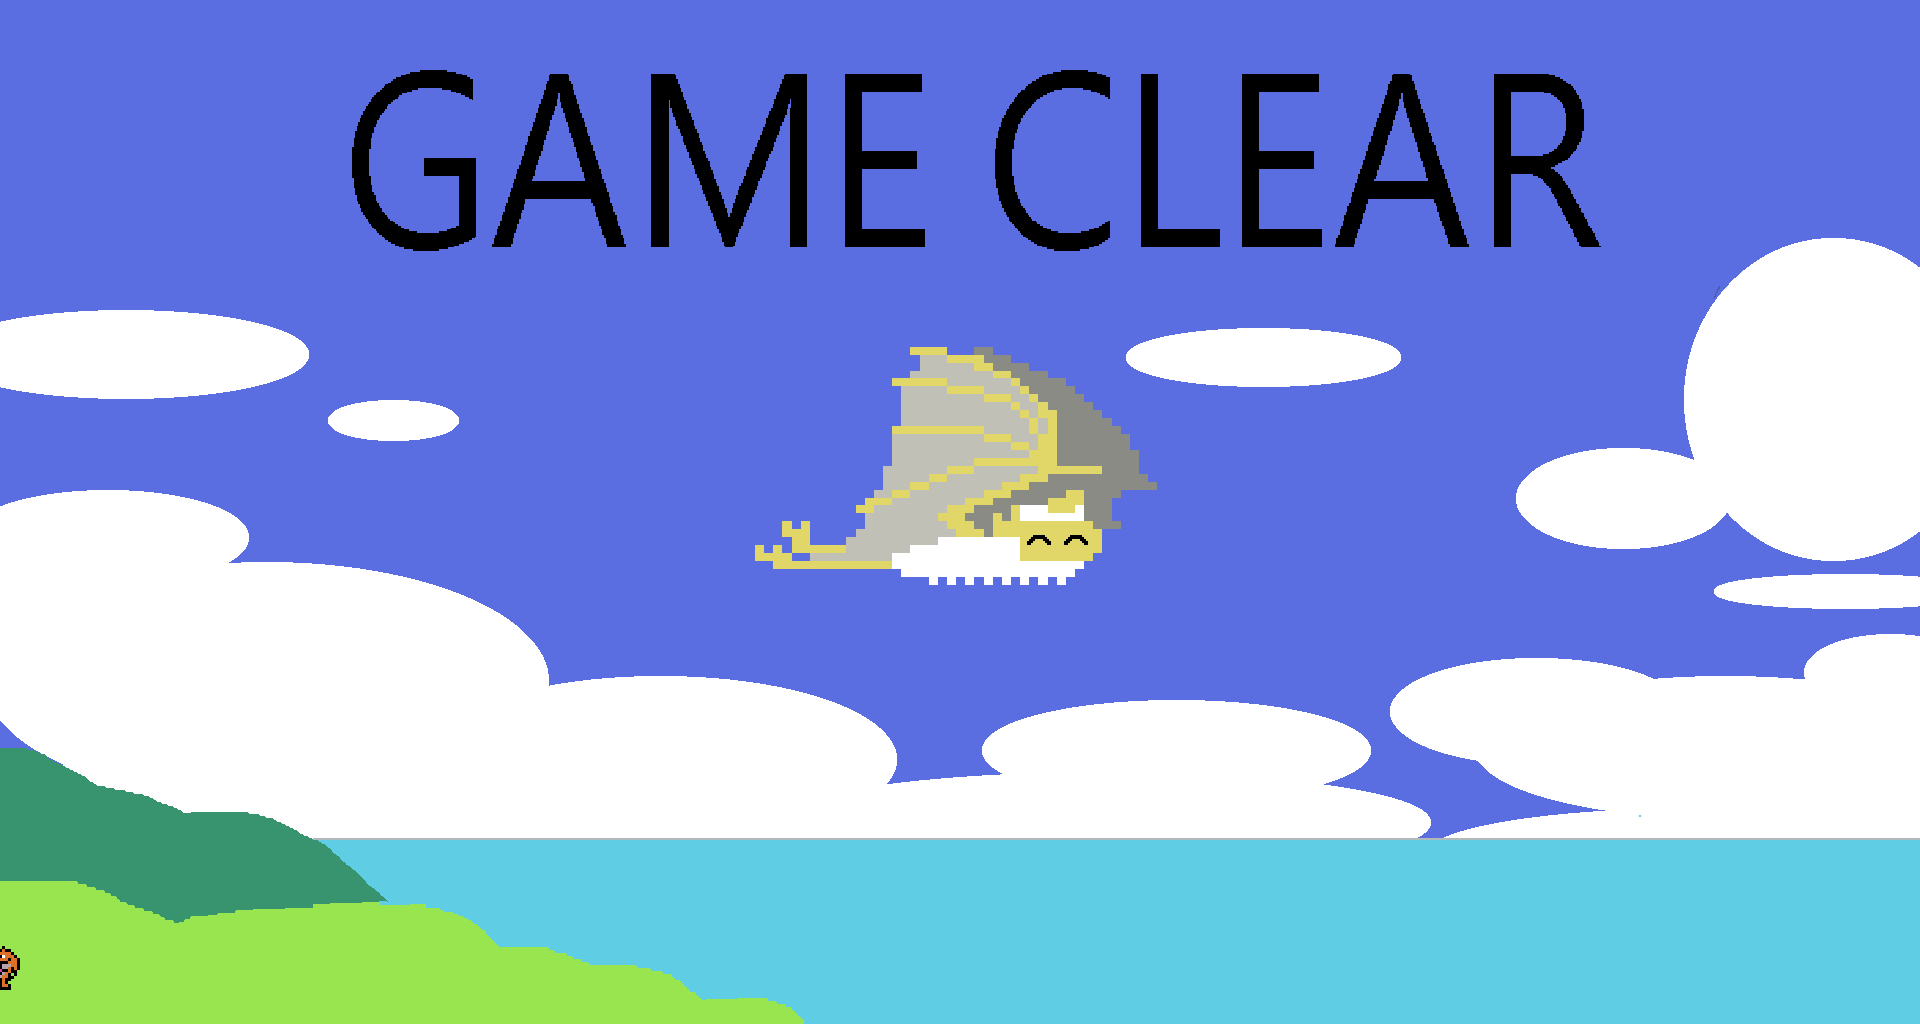
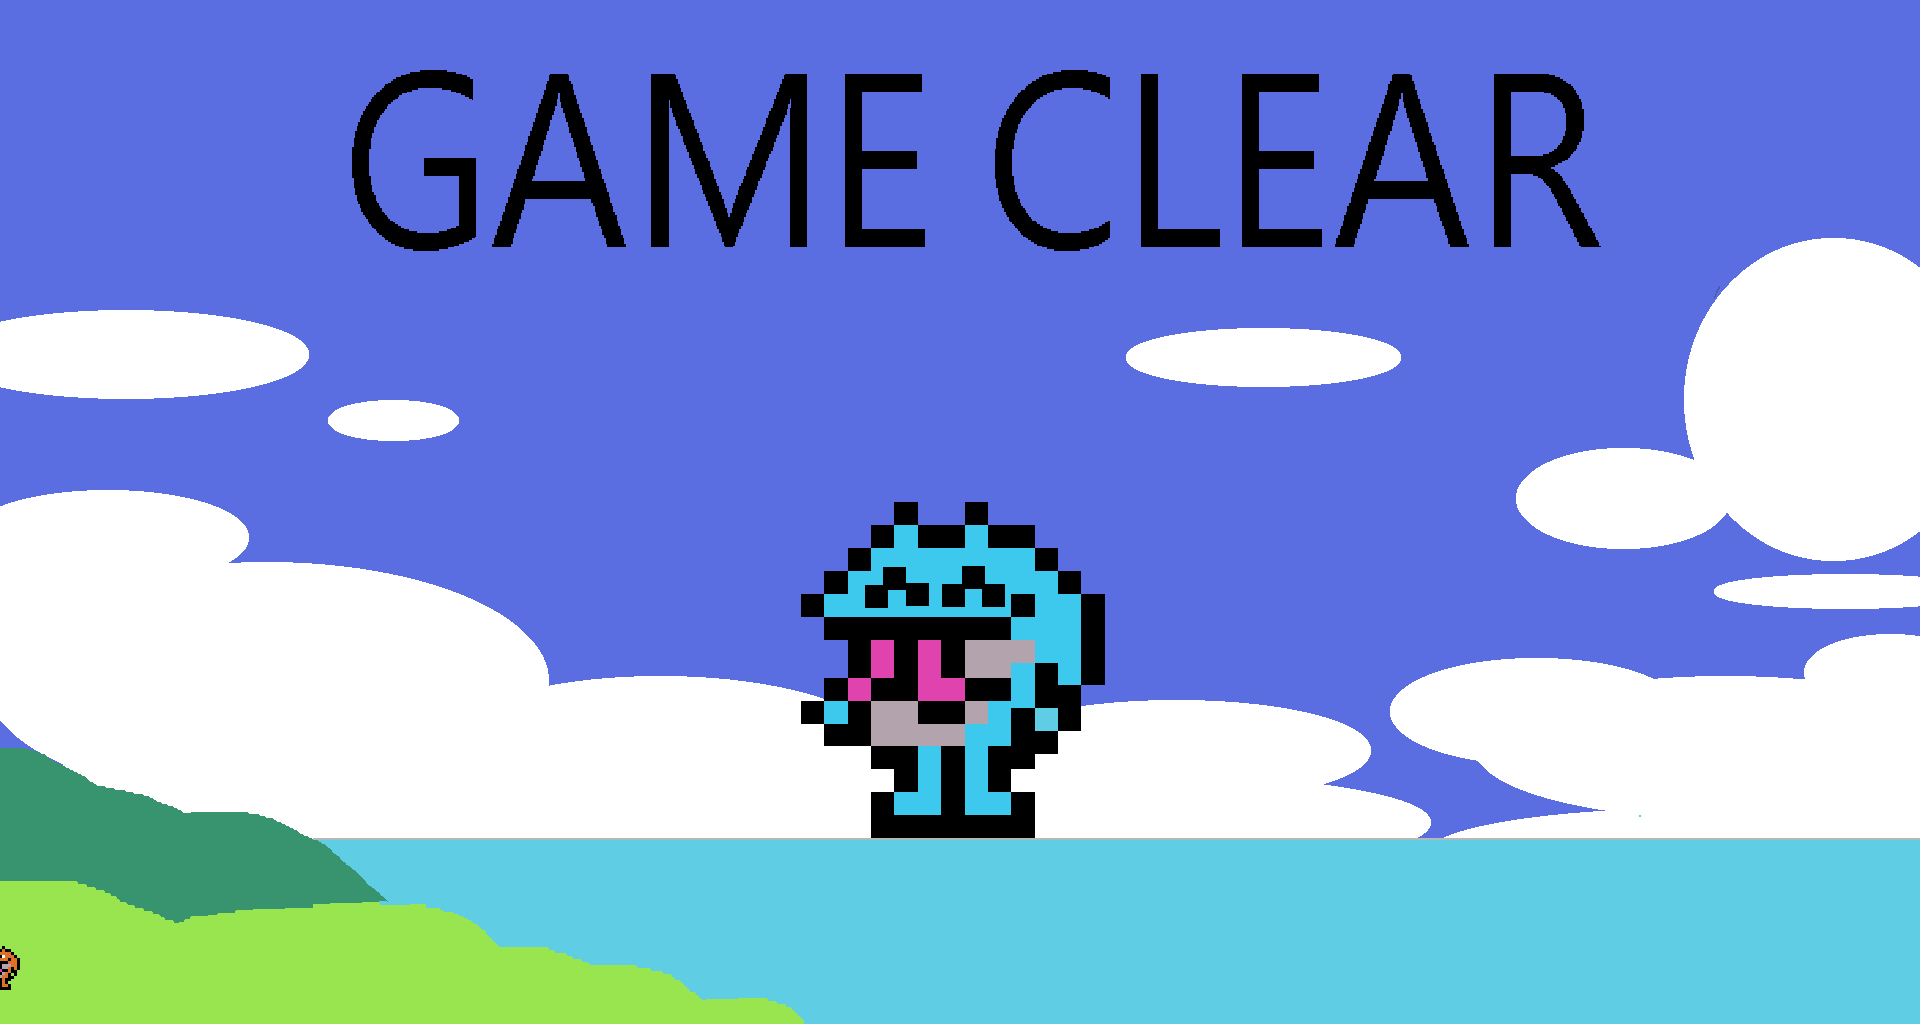
ゲームクリアとゲームオーバー終わり

Changed region(s): [[0.375, 0.3438, 0.5938, 0.8438]]

diff --git a/GameClearScene.cpp b/GameClearScene.cpp
@@ -1,7 +1,6 @@
 #include "GameClearScene.h"
 
 void GameClearScene::Initialize() {
-
 	input_ = Input::GetInstance();
 	input_->Initialize();
 
@@ -23,30 +22,51 @@ void GameClearScene::Initialize() {
 	sprite_[2]->SetSize({1280.0f, 720.0f});
 	sprite_[2]->SetColor({0.0f, 0.0f, 0.0f, 0.0f});
 
+	sprite_[3].reset(sprite_[2]->Create(uvChacker_, {0.0f, 0.0f}));
+	sprite_[3]->SetSize({1280.0f, 720.0f});
+	sprite_[3]->SetColor({0.0f, 0.0f, 0.0f, 0.0f});
+
 	isPushKey = false;
 	spriteChangeTimer = 0;
+
+	material[0] = {0.0f, 0.0f, 0.0f, 0.0f};
+	material[1] = {0.0f, 0.0f, 0.0f, 1.0f};
+
+	isChange = true;
 }
 
 void GameClearScene::Update() {
 	input_->Update();
 
-	spriteChangeTimer++;
-
-	if (spriteChangeTimer >= 90) {
-		spriteChangeTimer = 0;
+	if (isChange == true) {
+		material[1].w -= 0.01f;
+		sprite_[3]->SetColor({0.0f, 0.0f, 0.0f, material[1].w});
 	}
 
-	if (input_->PushKey(DIK_RETURN)) {
-		isPushKey = true;
+	if (sprite_[3]->GetColor().w <= 0.0f) {
+		isChange = false;
 	}
 
-	if (isPushKey == true) {
-		material.w += 0.01f;
-		sprite_[2]->SetColor({0.0f, 0.0f, 0.0f, material.w});
-	}
+	if (isChange == false) {
 
-	if (sprite_[2]->GetColor().w >= 1.0f) {
-		sceneNo = TITLE;
+		spriteChangeTimer++;
+
+		if (spriteChangeTimer >= 90) {
+			spriteChangeTimer = 0;
+		}
+
+		if (input_->PushKey(DIK_RETURN)) {
+			isPushKey = true;
+		}
+
+		if (isPushKey == true) {
+			material[0].w += 0.01f;
+			sprite_[2]->SetColor({0.0f, 0.0f, 0.0f, material[0].w});
+		}
+
+		if (sprite_[2]->GetColor().w >= 1.0f) {
+			sceneNo = TITLE;
+		}
 	}
 }
 
@@ -56,18 +76,27 @@ void GameClearScene::Draw() {
 	for (int i = 0; i <= 2; i++) {
 		sprite_[i]->PreDraw(commandList);
 
-		if (spriteChangeTimer <= 44) {
-			sprite_[0]->Draw();
-		} else if (spriteChangeTimer >= 45) {
-			sprite_[1]->Draw();
+		if (isChange == true) {
+			sprite_[3]->Draw();
 		}
 
-		if (isPushKey == true) {
-			sprite_[2]->Draw();
-		}
+		if (isChange == false) {
 
+			if (spriteChangeTimer <= 44) {
+				sprite_[0]->Draw();
+			} else if (spriteChangeTimer >= 45) {
+				sprite_[1]->Draw();
+			}
+
+			if (isPushKey == true) {
+				sprite_[2]->Draw();
+			}
+		}
 		sprite_[i]->PostDraw();
 	}
 }
 
-void GameClearScene::Finalize() {}
+void GameClearScene::Finalize()
+{
+
+}

diff --git a/GameOverScene.cpp b/GameOverScene.cpp
@@ -6,8 +6,8 @@ void GameOverScene::Initialize() {
 
 	TextureManager::GetInstance()->Initialize(DirectXCommon::GetInstance()->GetDevice());
 
-	titlepng[0] = TextureManager::Load("SusumeEnemyO1.png");
-	titlepng[1] = TextureManager::Load("SusumeEnemyO3.png");
+	titlepng[0] = TextureManager::Load("Gameover1.png");
+	titlepng[1] = TextureManager::Load("Gameover2.png");
 	uvChacker_ = TextureManager::Load("uvChecker.png");
 
 	sprite_[0].reset(sprite_[0]->Create(titlepng[0], {0.0f, 0.0f}));

diff --git a/GameClearScene.h b/GameClearScene.h
@@ -18,17 +18,18 @@ public:
 private:
 	Input* input_;
 
-	std::unique_ptr<Sprite> sprite_[3];
+	std::unique_ptr<Sprite> sprite_[4];
 
 	TextureManager* texture_;
 
 	uint32_t uvChacker_;
 	uint32_t titlepng[2];
 
-	Vector4 material;
+	Vector4 material[2];
 
 	bool isPushKey = false;
 
 	int spriteChangeTimer = 0;
 
+	bool isChange;
 };

diff --git a/scene/GameScene.cpp b/scene/GameScene.cpp
@@ -165,7 +165,7 @@ void GameScene::Update() {
 
 		// debugCamera_->Update();
 
-		if (clearTimer >= 3000 && isClearChange == false && isOverChange == false) {
+		if (clearTimer >= 420 && isClearChange == false && isOverChange == false) {
 			isClearChange = true;
 		}
 
